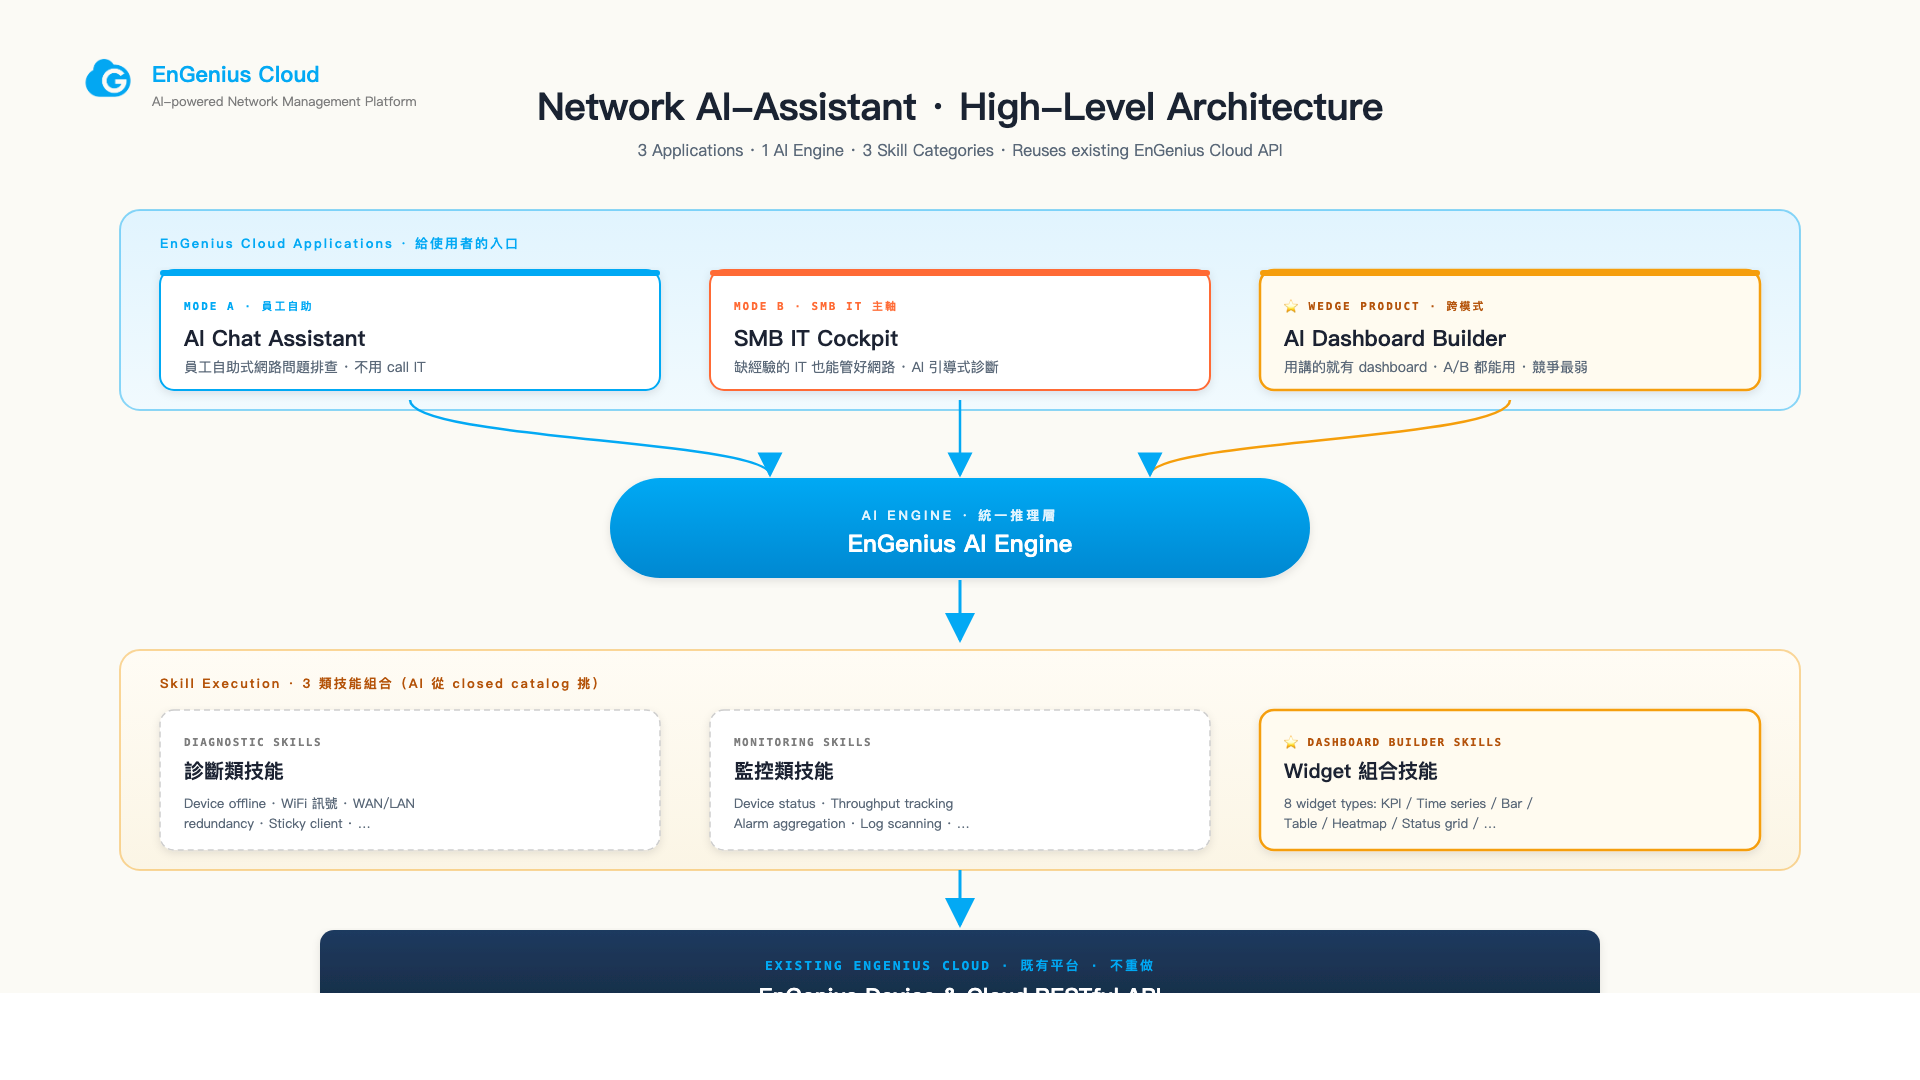
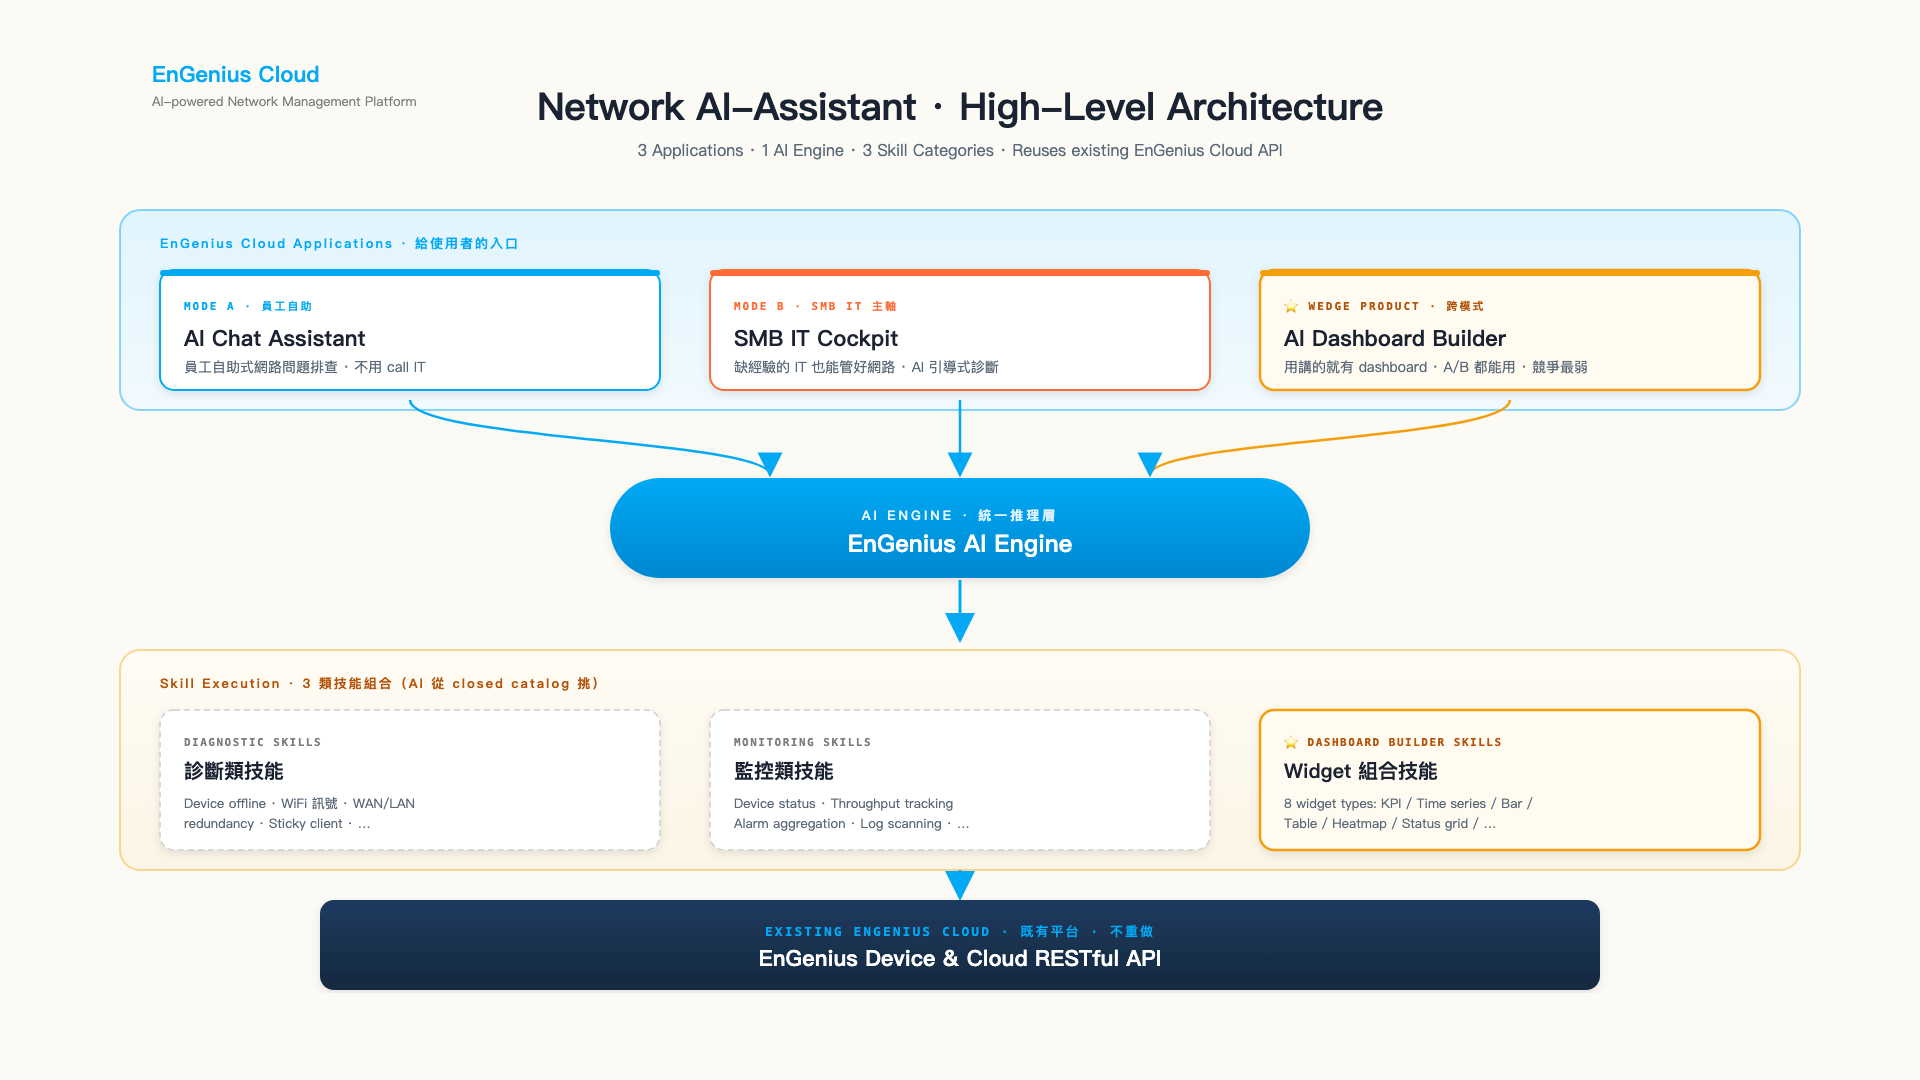
fix: architecture diagram bottom no longer cropped
Previous render via headless Chrome cut the API bar at the bottom because
the actual rendering viewport was ~50px shorter than the requested 1080.

Two fixes:
- Add HTML wrapper (_render-wrapper.html) for cleaner Chrome render
- Pull bottom layer up: API bar y=930→900 (height 100→90), skills→API
  arrow shortened, footer y=1064→1024

Now the full diagram fits within Chrome's actual rendering viewport on
a --window-size=1920,1080 screenshot.

Changed region(s): [[0.1562, 0.825, 0.8438, 0.9167], [0.0312, 0.0611, 0.0625, 0.0917]]

diff --git a/assets/_render-wrapper.html b/assets/_render-wrapper.html
@@ -1,0 +1,7 @@
+<!DOCTYPE html>
+<html><head><meta charset="utf-8"><style>
+html,body{margin:0;padding:0;background:#fbfaf5;width:1920px;height:1080px;overflow:hidden;}
+img{display:block;width:1920px;height:1080px;}
+</style></head><body>
+<img src="diagram-architecture-overview.svg" width="1920" height="1080">
+</body></html>
